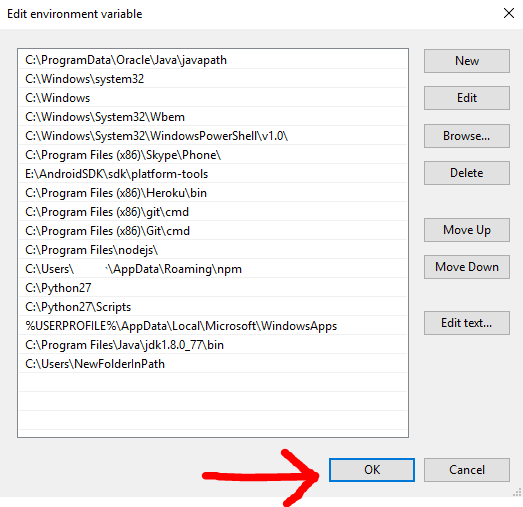
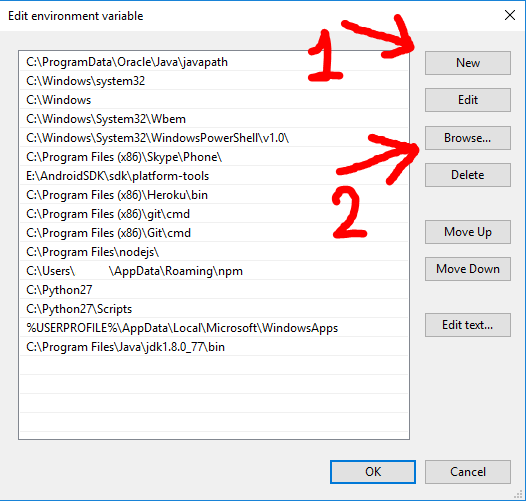
change doc

diff --git a/README.md b/README.md
@@ -12,15 +12,20 @@
       sudo zypper in vlc
       ```
 
-   Setup VLC player (windows)
-      1. 
-        ![image](./documents/images/0.png)
-      2. 
-        ![image](./documents/images/1.png)
-      3. 
-        ![image](./documents/images/2.png)
-      4.   
-        ![image](./documents/images/3.png)
+   1.Setup VLC player (windows)
+      1. Install VLC
+         * test
+      2. Open system properties
+
+         ![image](./documents/images/0.png)
+      3. Click the Environment Variables
+
+         ![image](./documents/images/1.png)
+      4. Under the “System Variables” section (the lower half), find the row with “Path” in the first column, and click edit.
+
+         ![image](./documents/images/3.png)
+      5. Under the “System Variables” section (the lower half), find the row with “Path” in the first column, and click edit.
+         ![image](./documents/images/4.png) 
 2. Install python3 requirements
       ```bash
       pip3 install -r requirements.txt
